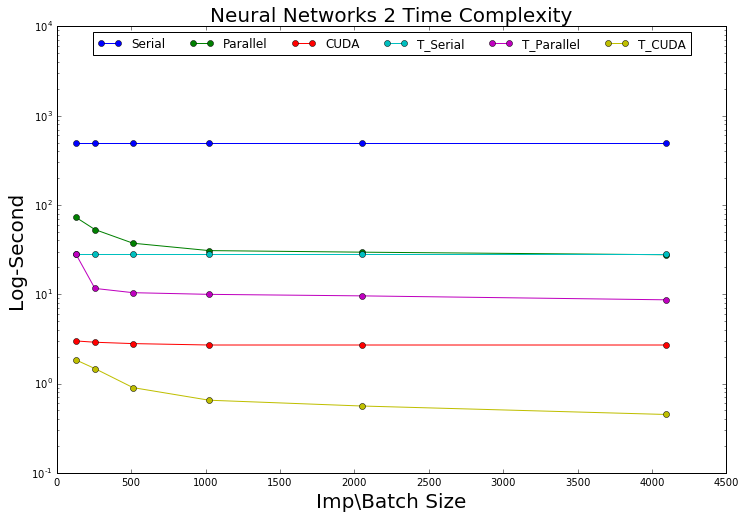
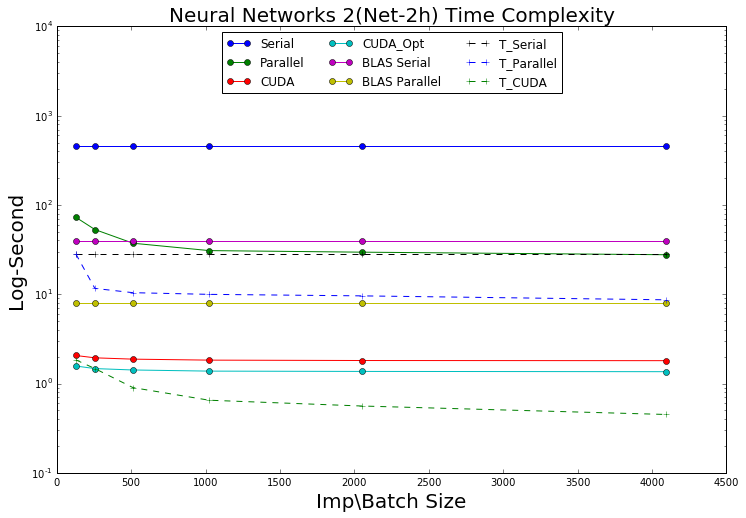
Update slide and figures

diff --git a/slide/result.tex b/slide/result.tex
@@ -1,9 +1,12 @@
 \section{Results and analysis}
+\begin{frame}<beamer>{Outline}
+    \tableofcontents[currentsection,currentsubsection]
+  \end{frame}
  \begin{frame}{Results}
      \begin{itemize}
-         \item{ \textbf{Neural Networks 1}
+         \item{ \textbf{Neural Networks 1 (Net-1h)}
          }
-         \item { Accuracy is 97.78\%} 
+%         \item { Accuracy is 97.78\%} 
      \end{itemize}
      
 		\begin{center}
@@ -14,9 +17,9 @@
  
 \begin{frame}{Results (contd.)}
      \begin{itemize}
-         \item{ \textbf{Neural Networks 2}
+         \item{ \textbf{Neural Networks 2 (Net-2h)}
          }
-         \item { Accuracy is ???\%} 
+%         \item { Accuracy is ???\%} 
      \end{itemize}
      
 		\begin{center}
@@ -27,7 +30,7 @@
 
 \begin{frame}{Results (contd.)}
      \begin{itemize}
-         \item{ \textbf{Neural Networks 1 - GFLOPS}
+         \item{ \textbf{Neural Networks 1 (Net-1h) - GFLOPS}
          }
      \end{itemize}
      
@@ -39,7 +42,7 @@
 
 \begin{frame}{Results (contd.)}
      \begin{itemize}
-         \item{ \textbf{Neural Networks 2 - GFLOPS}
+         \item{ \textbf{Neural Networks 2 (Net-2h)- GFLOPS}
          }
      \end{itemize}
      
@@ -75,5 +78,3 @@
 
 
 
-
-\end{document}

diff --git a/slide/main.tex b/slide/main.tex
@@ -121,3 +121,4 @@
   \input{result.tex}
 
 
+\end{document}
